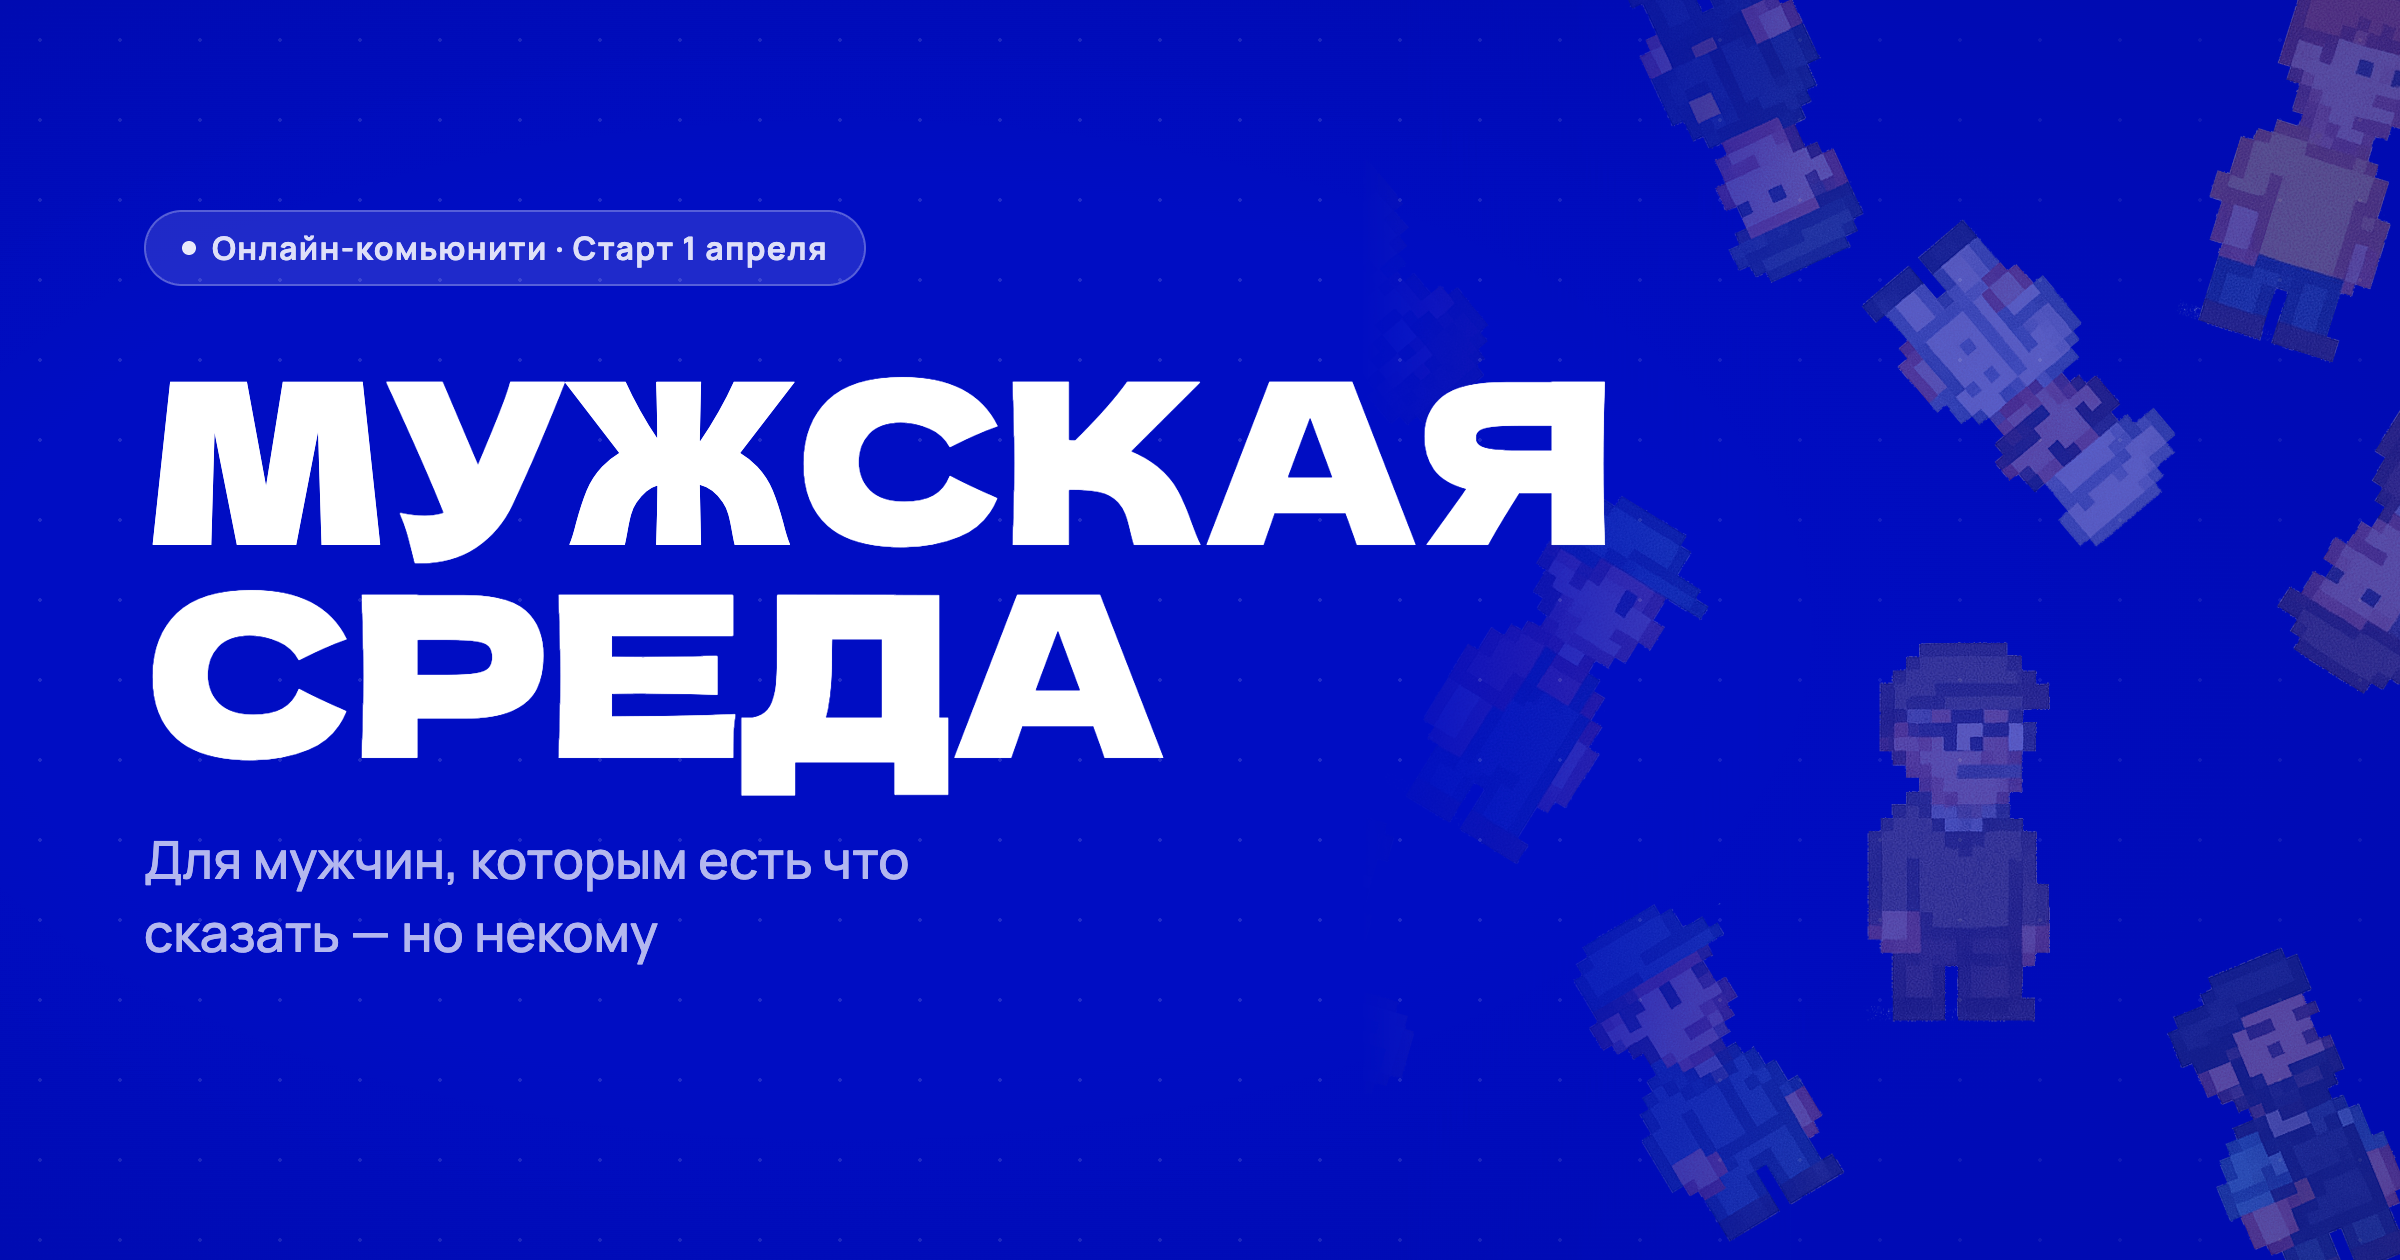
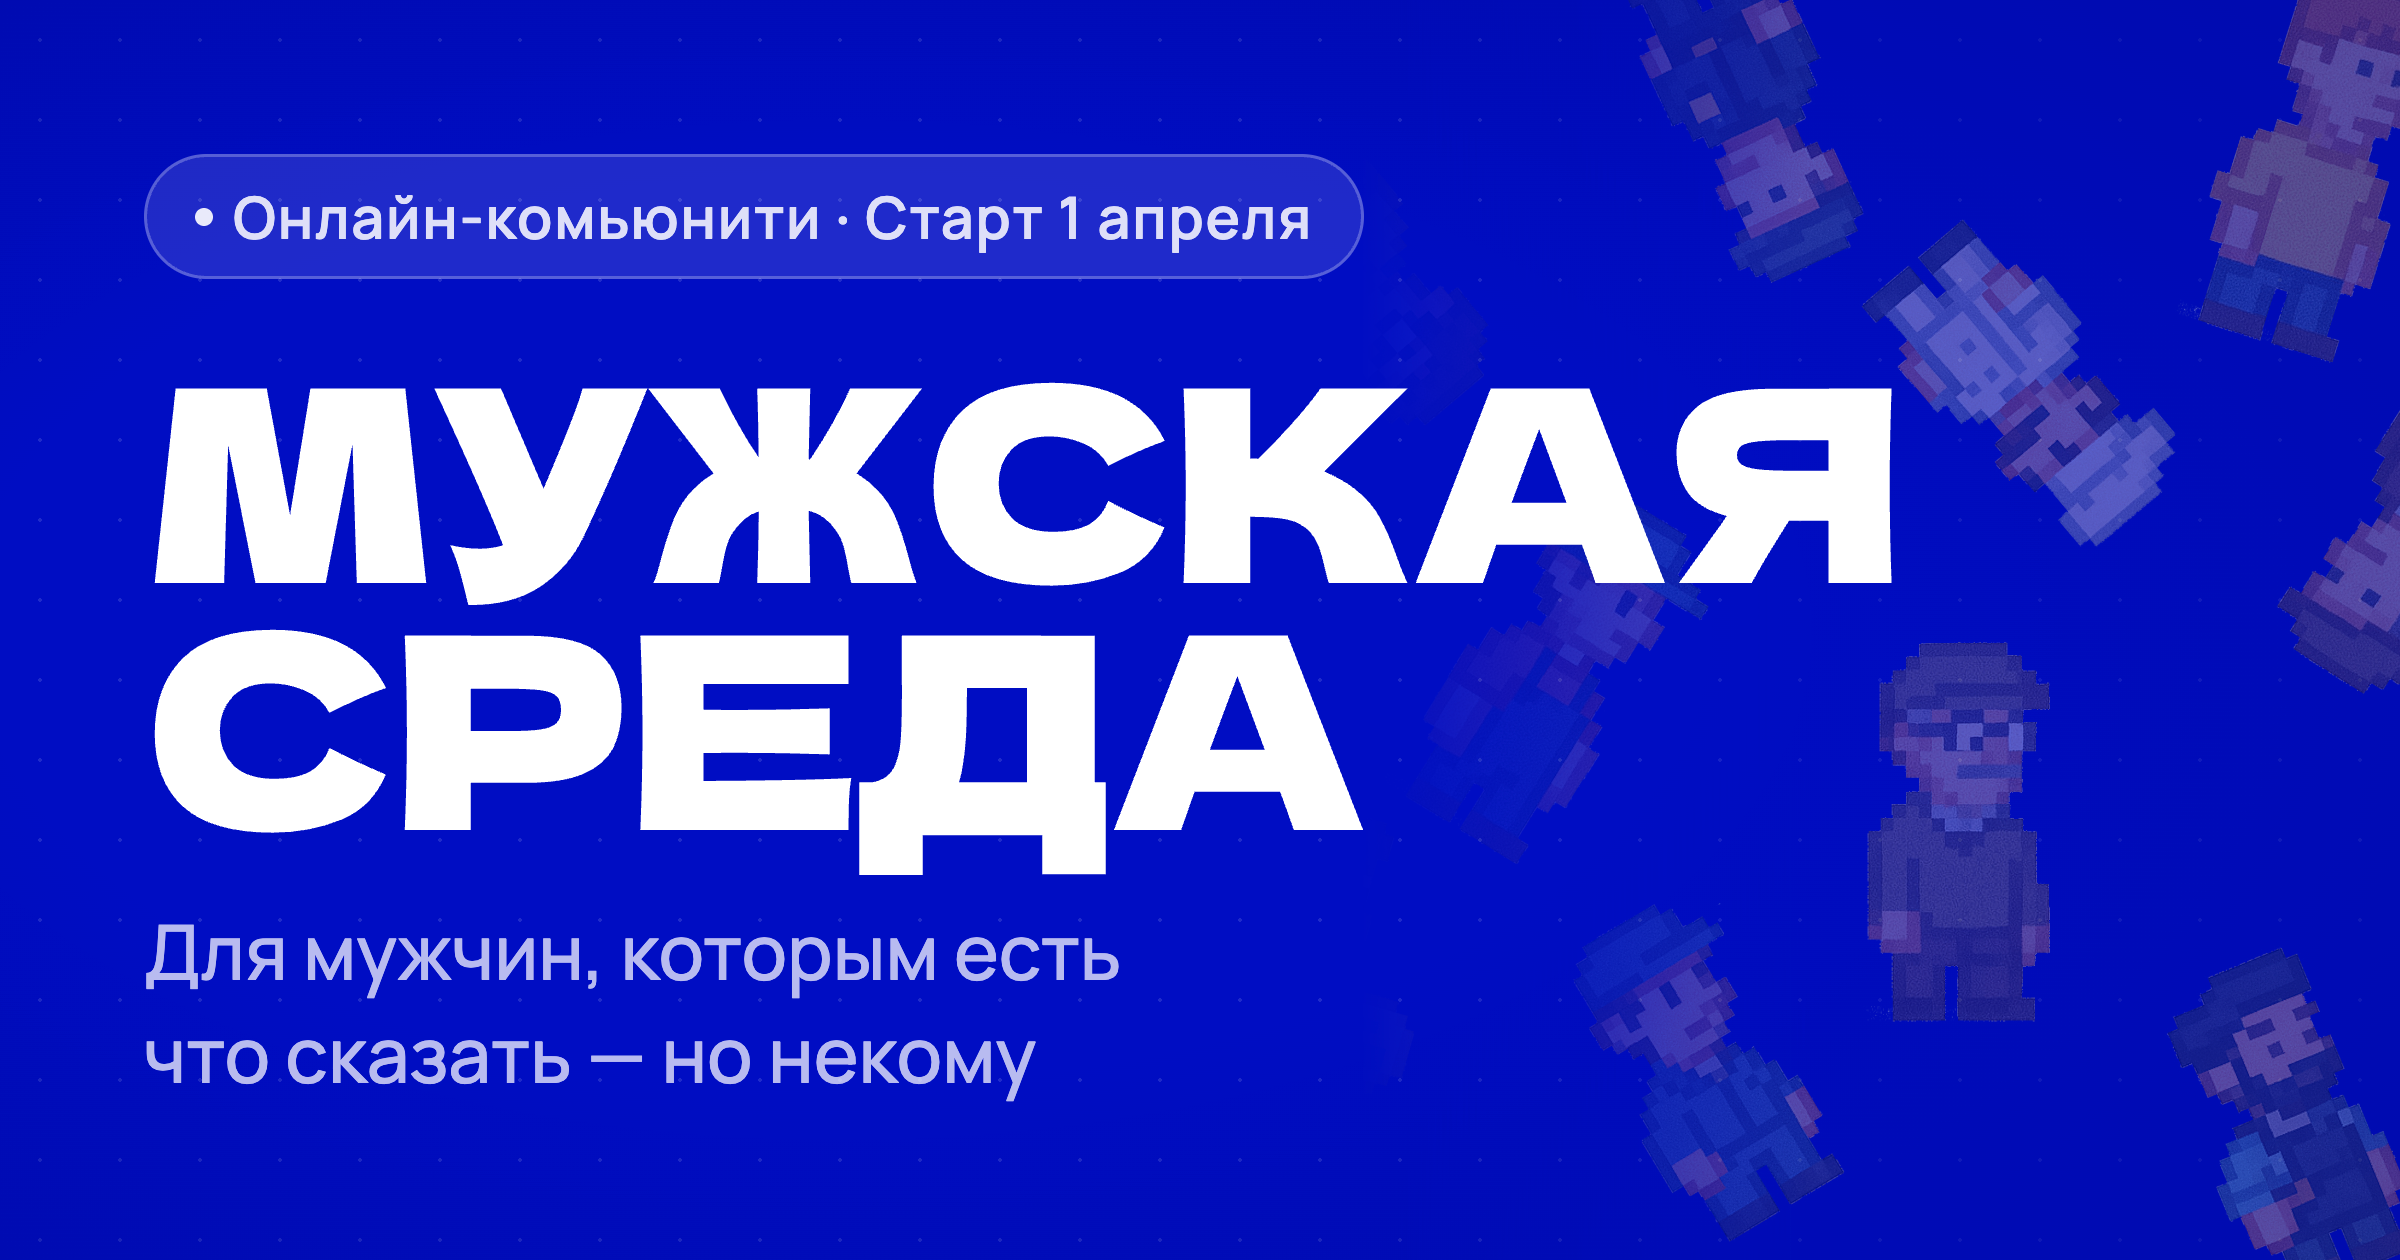
Update OG image: restore left layout, scale up text for mobile readability

Changed region(s): [[0.0625, 0.2786, 0.8125, 0.8667], [0.0625, 0.1238, 0.5938, 0.2476], [0.625, 0.2786, 0.6562, 0.3095]]

diff --git a/og-image.html b/og-image.html
@@ -2,11 +2,10 @@
 <html lang="ru">
 <head>
   <meta charset="UTF-8" />
-  <meta name="viewport" content="width=device-width, initial-scale=1.0" />
   <title>OG Image — Мужская среда</title>
   <link rel="preconnect" href="https://fonts.googleapis.com" />
   <link rel="preconnect" href="https://fonts.gstatic.com" crossorigin />
-  <link href="https://fonts.googleapis.com/css2?family=Dela+Gothic+One&family=Manrope:wght@500;700&display=swap" rel="stylesheet" />
+  <link href="https://fonts.googleapis.com/css2?family=Dela+Gothic+One&family=Manrope:wght@500;600&display=swap" rel="stylesheet" />
   <style>
     *, *::before, *::after { box-sizing: border-box; margin: 0; padding: 0; }
 
@@ -24,26 +23,23 @@
       align-items: center;
     }
 
-    /* Subtle dot grid */
+    /* Dot grid */
     .grid {
       position: absolute;
       inset: 0;
-      background-image:
-        radial-gradient(circle, rgba(255,255,255,0.12) 1px, transparent 1px);
+      background-image: radial-gradient(circle, rgba(255,255,255,0.12) 1px, transparent 1px);
       background-size: 40px 40px;
     }
 
-    /* Dark vignette on edges */
+    /* Vignette — focused on left side */
     .vignette {
       position: absolute;
       inset: 0;
-      background:
-        radial-gradient(ellipse 90% 90% at 35% 50%,
-          transparent 40%,
-          rgba(0, 8, 120, 0.5) 100%);
+      background: radial-gradient(ellipse 90% 90% at 35% 50%,
+        transparent 40%, rgba(0, 8, 120, 0.5) 100%);
     }
 
-    /* Pixel art image — right side */
+    /* Pixel art — right side */
     .art {
       position: absolute;
       right: -40px;
@@ -52,7 +48,6 @@
       width: 560px;
       overflow: hidden;
     }
-
     .art img {
       width: 100%;
       height: 100%;
@@ -63,7 +58,7 @@
       -webkit-mask-image: linear-gradient(to right, transparent 0%, black 40%);
     }
 
-    /* Content */
+    /* Content — left aligned */
     .content {
       position: relative;
       z-index: 2;
@@ -71,29 +66,28 @@
       display: flex;
       flex-direction: column;
       gap: 0;
-      max-width: 700px;
+      max-width: 760px;
     }
 
     .badge {
       display: inline-flex;
       align-items: center;
-      gap: 8px;
+      gap: 10px;
       background: rgba(255,255,255,0.12);
-      border: 1px solid rgba(255,255,255,0.25);
+      border: 1.5px solid rgba(255,255,255,0.25);
       color: rgba(255,255,255,0.85);
-      font-size: 16px;
+      font-size: 22px;
       font-weight: 600;
-      padding: 7px 18px;
+      padding: 10px 24px;
       border-radius: 100px;
-      letter-spacing: 0.04em;
-      margin-bottom: 28px;
+      letter-spacing: 0.03em;
+      margin-bottom: 32px;
       width: fit-content;
     }
-
     .badge::before {
       content: '';
-      width: 7px;
-      height: 7px;
+      width: 9px;
+      height: 9px;
       background: #fff;
       border-radius: 50%;
       opacity: 0.9;
@@ -101,43 +95,31 @@
 
     .logo {
       font-family: 'Dela Gothic One', sans-serif;
-      font-size: 112px;
-      line-height: 0.95;
+      font-size: 172px;
+      line-height: 0.92;
       color: #fff;
       letter-spacing: -0.01em;
-      margin-bottom: 28px;
+      margin-bottom: 32px;
     }
 
     .sub {
-      font-size: 26px;
+      font-size: 38px;
       font-weight: 500;
-      color: rgba(255,255,255,0.7);
-      line-height: 1.4;
-      max-width: 460px;
-      margin-bottom: 40px;
-    }
-
-    .url {
-      font-size: 18px;
-      font-weight: 700;
-      color: rgba(255,255,255,0.45);
-      letter-spacing: 0.04em;
+      color: rgba(255,255,255,0.72);
+      line-height: 1.35;
+      max-width: 580px;
     }
   </style>
 </head>
 <body>
   <div class="grid"></div>
   <div class="vignette"></div>
-
-  <div class="art">
-    <img src="Frame 17.jpg" alt="" />
-  </div>
+  <div class="art"><img src="Frame 17.jpg" alt="" /></div>
 
   <div class="content">
     <span class="badge">Онлайн-комьюнити · Старт 1 апреля</span>
     <div class="logo">МУЖСКАЯ<br />СРЕДА</div>
-    <p class="sub">Для мужчин, которым есть что<br />сказать — но некому</p>
-    <span class="url">men-env</span>
+    <p class="sub">Для мужчин, которым есть<br />что сказать — но некому</p>
   </div>
 </body>
 </html>
